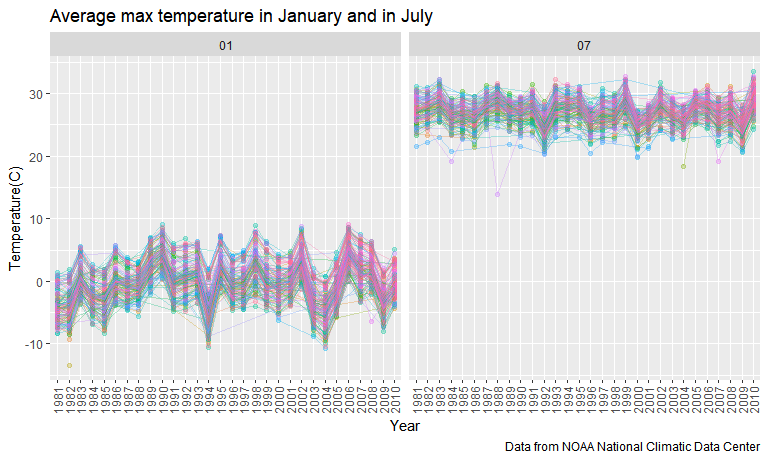
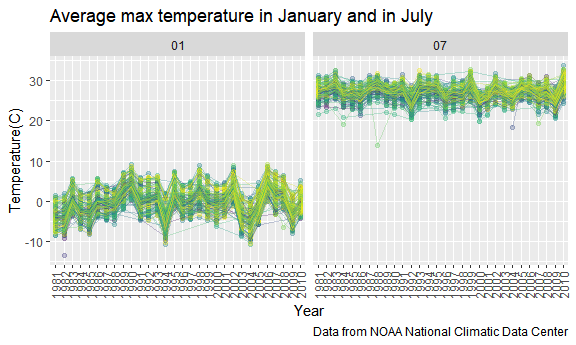
Correct some styling~

diff --git a/p8105_hw3_cy2588.md b/p8105_hw3_cy2588.md
@@ -3,10 +3,6 @@ p8105\_hw3\_cy2588
 Chufeng Yang
 10/7/2020
 
-I’m an R Markdown document\!
-
-## Problem 1
-
 ``` r
 library(tidyverse)
 ```
@@ -29,12 +25,22 @@ data("instacart")
 data("ny_noaa")
 
 knitr::opts_chunk$set(
-  fig.height = 8,
-  fig.width = 8,
+  fig.width = 6,
   fig.asp = .6,
-  out.width = "90%"
+  out.width = "90%",
+  message =F,
+  warning = F
 )
+
+options(
+  ggplot2.continuous.colour = "viridis",
+  ggplot2.continuous.fill = "viridis"
+)
+scale_colour_discrete = scale_colour_viridis_d
+scale_fill_discrete = scale_fill_viridis_d
 ```
+
+## Problem 1
 
 This dataset contains 1384617 rows and 15 columns.
 
@@ -141,8 +147,6 @@ instacart %>%
 knitr::kable()
 ```
 
-    ## `summarise()` regrouping output by 'product_name' (override with `.groups` argument)
-
 | product\_name    |        0 |        1 |        2 |        3 |        4 |        5 |        6 |
 | :--------------- | -------: | -------: | -------: | -------: | -------: | -------: | -------: |
 | Coffee Ice Cream | 13.77419 | 14.31579 | 15.38095 | 15.31818 | 15.21739 | 12.26316 | 13.83333 |
@@ -150,7 +154,7 @@ knitr::kable()
 
 ## Problem 2
 
-Load, tidy, and otherwise wrangle the data.
+### Load, tidy, and otherwise wrangle the data.
 
 ``` r
 accel_df = 
@@ -188,10 +192,7 @@ For now, in the final dataset, there are variables include day\_id,
 week, weekday\_vs\_weekend, day, minute, activity\_count, with a total
 of 50400 rows and 6 columns, there are 50400 observations.
 
-Traditional analyses of accelerometer data focus on the total activity
-over the day.Using your tidied dataset, aggregate accross minutes to
-create a total activity variable for each day, and create a table
-showing these totals. Are any trends apparent?
+### Traditional analyses of accelerometer data focus on the total activity over the day.Using your tidied dataset, aggregate accross minutes to create a total activity variable for each day, and create a table showing these totals. Are any trends apparent?
 
 ``` r
 accel_df %>% 
@@ -202,8 +203,6 @@ accel_df %>%
     values_from = "total_activity")%>% 
 knitr::kable()
 ```
-
-    ## `summarise()` regrouping output by 'week' (override with `.groups` argument)
 
 | week |    Monday |  Tuesday | Wednesday | Thursday |   Friday | Saturday | Sunday |
 | :--- | --------: | -------: | --------: | -------: | -------: | -------: | -----: |
@@ -217,10 +216,7 @@ It seems like activities from Tuesday to Friday are basically stable
 during these 5 weeks, however, the activities are significant lower on
 Saturday and Sunday in week 4 and 5, especially Saturday.
 
-Accelerometer data allows the inspection activity over the course of the
-day. Make a single-panel plot that shows the 24-hour activity time
-courses for each day and use color to indicate day of the week. Describe
-in words any patterns or conclusions you can make based on this graph.
+### Accelerometer data allows the inspection activity over the course of the day. Make a single-panel plot that shows the 24-hour activity time courses for each day and use color to indicate day of the week. Describe in words any patterns or conclusions you can make based on this graph.
 
 ``` r
 accel_df %>% 
@@ -229,7 +225,7 @@ accel_df %>%
              y = activity_count, 
              color = day, 
              group = day_id)) + 
-  geom_point(alpha = .05)+
+  geom_point(alpha = .1)+
   stat_smooth(se = F, 
               method = "loess") + 
   labs(title = "Activities plot",
@@ -241,18 +237,15 @@ accel_df %>%
                       trans = "log10")
 ```
 
-    ## `geom_smooth()` using formula 'y ~ x'
-
 <img src="p8105_hw3_cy2588_files/figure-gfm/unnamed-chunk-7-1.png" width="90%" />
+
 Based on this graph, it’s seems that daily active time of this 63
 year-old male is basically from around 8am to 10pm, and for weekday, his
 activity counts would be higher and with longer active time.
 
 ## Problem 3
 
-### 1
-
-Do some data cleaning.
+### Do some data cleaning.
 
 ``` r
 ny_noaa_df = 
@@ -307,7 +300,7 @@ Data summary
 | tmax           |    1134358 |           0.56 | 13.98 |  11.14 | \-38.9 |   5.0 | 15.0 | 23.3 |    60 |
 | tmin           |    1134420 |           0.56 |  3.03 |  10.40 | \-59.4 | \-3.9 |  3.3 | 11.1 |    60 |
 
-For snowfall, what are the most commonly observed values? Why?
+### For snowfall, what are the most commonly observed values? Why?
 
 ``` r
 ny_noaa_df %>%
@@ -335,11 +328,7 @@ ny_noaa_df %>%
 The most commonly observed value is 0, because It didn’t snow in most of
 days.
 
-### 2
-
-Make a two-panel plot showing the average max temperature in January and
-in July in each station across years. Is there any observable /
-interpretable structure? Any outliers?
+### Make a two-panel plot showing the average max temperature in January and in July in each station across years. Is there any observable / interpretable structure? Any outliers?
 
 ``` r
 ny_noaa_df %>% 
@@ -364,22 +353,20 @@ ny_noaa_df %>%
        y = "Temperature(C)")
 ```
 
-    ## `summarise()` regrouping output by 'year', 'month' (override with `.groups` argument)
-
 <img src="p8105_hw3_cy2588_files/figure-gfm/unnamed-chunk-10-1.png" width="90%" />
-There’s a increasing of tmax in January from 1981 to 1993, but not
-continue increase after that. The tmax of July are relatively stable.
-And all the temperature data basically follow the same variation, and
-relatively keep same differences between stations. There do have some
-outliers, such as temperature of January in 1982 or temperature of July
-in 1988 and 2004. They may caused by abnormal changes in the weather or
-just wrong data. Even if things are messy, are some stations usually
-higher or lower than others across years? Are some years higher or lower
-than you might expect?
 
-### 3
+There’s a increasing of max temperature in January from 1981 to 1993,
+but it didn’t keep increasing after that. The max temperature of July
+are relatively stable. And all the temperature data basically follow the
+same variation, and relatively keep same temperature differences between
+stations. So, it seems that some stations are always colder or warmer.  
+There do have some outliers, such as temperature in January 1982 or in
+July 1988 and 2004. They may caused by abnormal weather or just wrong
+data.
 
-plot 1: tmax vs tmin for the full dataset.
+### Make a two-panel plot
+
+##### plot 1: tmax vs tmin for the full dataset.
 
 ``` r
 temp_plot = 
@@ -391,8 +378,7 @@ temp_plot =
        y = "min temperature(C)")
 ```
 
-plot 2: the distribution of snowfall values greater than 0 and less than
-100 separately by year.
+##### plot 2: the distribution of snowfall values greater than 0 and less than 100 separately by year.
 
 ``` r
 snow_plot = 
@@ -407,7 +393,7 @@ snow_plot =
        y = "Snowfall(mm)")
 ```
 
-combine panels
+#### combine panels
 
 ``` r
 temp_plot / snow_plot
